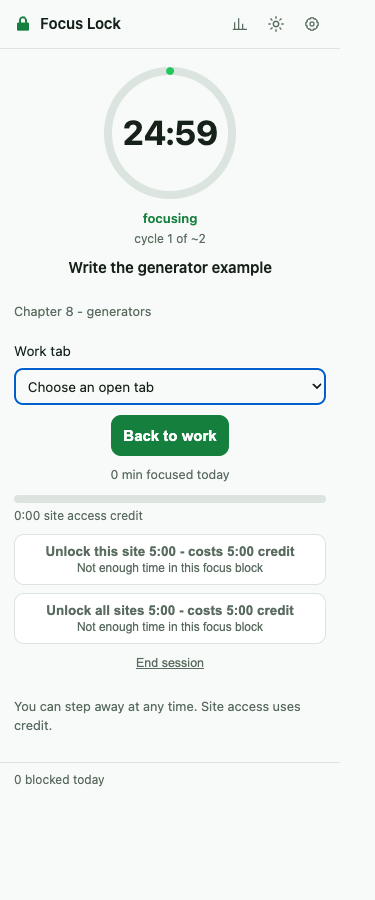
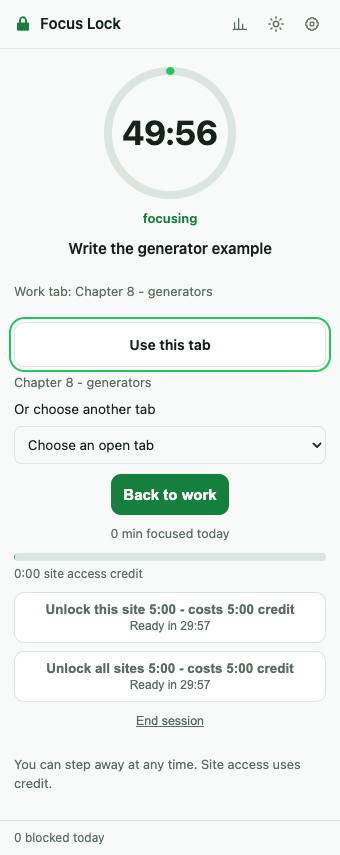
Verify and document direct work tab selection

diff --git a/tests/e2e/work-target.spec.ts b/tests/e2e/work-target.spec.ts
@@ -3,6 +3,21 @@ import type { SessionSnapshot } from '../../src/shared/types';
 import type { WorkTargetResult } from '../../src/shared/work-target';
 import { expect, sendExtensionRequest, startTestSession, test } from './fixtures';
 
+interface AccessibilityProperty {
+  name: string;
+  value: { value?: unknown };
+}
+
+interface AccessibilityNode {
+  role?: { value?: unknown };
+  name?: { value?: unknown };
+  properties?: AccessibilityProperty[];
+}
+
+interface AccessibilityTree {
+  nodes: AccessibilityNode[];
+}
+
 interface TabIdentity {
   tabId: number;
   windowId: number;
@@ -320,6 +335,9 @@ test('the popup defaults to the current work tab and can replace a closed target
   await workPage.bringToFront();
   await extPage.reload();
   await expect(extPage.getByLabel('Work tab', { exact: true })).toHaveValue(String(work.tabId));
+  await extPage.getByLabel('Work tab', { exact: true }).selectOption('');
+  await extPage.getByRole('button', { name: 'Use this tab', exact: true }).click();
+  await expect(extPage.getByLabel('Work tab', { exact: true })).toHaveValue(String(work.tabId));
   await extPage.getByLabel("What's your next small step?").fill('Write the first assertion');
   await extPage.getByRole('button', { name: 'Start focusing' }).click();
   await expect(extPage.getByRole('button', { name: 'Back to work', exact: true })).toBeEnabled();
@@ -335,7 +353,9 @@ test('the popup defaults to the current work tab and can replace a closed target
     document.title = 'Finish the example';
   });
   const replacementTab: TabIdentity = await identity(worker, replacement);
-  await extPage.getByLabel('Work tab', { exact: true }).selectOption(String(replacementTab.tabId));
+  await replacement.bringToFront();
+  await extPage.reload();
+  await extPage.getByRole('button', { name: 'Use this tab', exact: true }).click();
   await expect
     .poll(async (): Promise<string | null> => {
       const current: WorkTargetResult = await target(extPage, work.windowId);
@@ -352,6 +372,200 @@ test('the popup defaults to the current work tab and can replace a closed target
         }, replacementTab.tabId),
     )
     .toBe(true);
+});
+
+test('the inline picker offers allowed tabs and returns without losing page input', async ({
+  context,
+  extPage,
+  worker,
+  siteUrl,
+}) => {
+  const workPage: Page = await context.newPage();
+  await workPage.goto(siteUrl('/plain.html').replace('blocked.example', 'other.example'));
+  await workPage.evaluate((): void => {
+    document.title = 'Write the next example';
+    document.body.innerHTML = '<label>Draft<input id="draft"></label>';
+  });
+  await workPage.locator('#draft').fill('Keep my draft');
+  const work: TabIdentity = await identity(worker, workPage);
+  const blockedPage: Page = await context.newPage();
+  await blockedPage.goto(siteUrl('/plain.html'));
+  await blockedPage.evaluate((): void => {
+    document.title = 'Distracting page';
+    (window as unknown as { preserved: string }).preserved = 'existing content';
+  });
+  await startTestSession(extPage, { durationMin: 2, intention: 'Write one example' });
+  await expect(blockedPage.locator('focus-lock-overlay')).toBeAttached();
+  await clickOverlay(context, blockedPage, 'Choose a work tab');
+  const cdp: CDPSession = await context.newCDPSession(blockedPage);
+  try {
+    await expect
+      .poll(async (): Promise<boolean> => {
+        const tree: AccessibilityTree = await cdp.send('Accessibility.getFullAXTree');
+        return tree.nodes.some(
+          (node: AccessibilityNode): boolean =>
+            node.role?.value === 'button' &&
+            String(node.name?.value).startsWith('Write the next example'),
+        );
+      })
+      .toBe(true);
+    const tree: AccessibilityTree = await cdp.send('Accessibility.getFullAXTree');
+    expect(
+      tree.nodes.some(
+        (node: AccessibilityNode): boolean =>
+          node.role?.value === 'button' && String(node.name?.value).includes('Distracting page'),
+      ),
+    ).toBe(false);
+  } finally {
+    await cdp.detach();
+  }
+  await clickOverlay(context, blockedPage, 'Write the next example');
+  await expect
+    .poll(
+      async (): Promise<boolean> =>
+        worker.evaluate(async (tabId: number): Promise<boolean> => {
+          const tab: chrome.tabs.Tab = await chrome.tabs.get(tabId);
+          return tab.active;
+        }, work.tabId),
+    )
+    .toBe(true);
+  expect(await target(extPage, work.windowId)).toMatchObject({
+    ok: true,
+    state: 'ready',
+    title: 'Write the next example',
+  });
+  await expect(workPage.locator('#draft')).toHaveValue('Keep my draft');
+  expect(
+    await blockedPage.evaluate(
+      (): string => (window as unknown as { preserved: string }).preserved,
+    ),
+  ).toBe('existing content');
+  await expect(blockedPage.locator('focus-lock-overlay')).toBeAttached();
+});
+
+test('refreshing an empty picker keeps keyboard focus inside the lockscreen', async ({
+  context,
+  extPage,
+  siteUrl,
+}) => {
+  const page: Page = await context.newPage();
+  await page.goto(siteUrl('/plain.html'));
+  await startTestSession(extPage, { durationMin: 2 });
+  await expect(page.locator('focus-lock-overlay')).toBeAttached();
+  await clickOverlay(context, page, 'Choose a work tab');
+  await clickOverlay(context, page, 'Refresh tabs');
+  const cdp: CDPSession = await context.newCDPSession(page);
+  const focused: (name: string) => Promise<boolean> = async (name: string): Promise<boolean> => {
+    const tree: AccessibilityTree = await cdp.send('Accessibility.getFullAXTree');
+    return tree.nodes.some(
+      (node: AccessibilityNode): boolean =>
+        node.role?.value === 'button' &&
+        node.name?.value === name &&
+        node.properties?.some(
+          (property: AccessibilityProperty): boolean =>
+            property.name === 'focused' && property.value.value === true,
+        ) === true,
+    );
+  };
+  try {
+    await expect.poll((): Promise<boolean> => focused('Cancel')).toBe(true);
+    await page.keyboard.press('Escape');
+    await expect.poll((): Promise<boolean> => focused('Choose a work tab')).toBe(true);
+  } finally {
+    await cdp.detach();
+  }
+});
+
+test('a pending work tab save can be cancelled with Escape without activating that tab', async ({
+  context,
+  extPage,
+  worker,
+  siteUrl,
+}) => {
+  const work: Page = await context.newPage();
+  await work.goto(siteUrl('/plain.html').replace('blocked.example', 'other.example'));
+  await work.evaluate((): void => {
+    document.title = 'Continue the draft';
+  });
+  const workTab: TabIdentity = await identity(worker, work);
+  const blocked: Page = await context.newPage();
+  await blocked.goto(siteUrl('/plain.html'));
+  await startTestSession(extPage, { durationMin: 2 });
+  await clickOverlay(context, blocked, 'Choose a work tab');
+  await worker.evaluate((): void => {
+    const original: typeof chrome.storage.session.set = chrome.storage.session.set.bind(
+      chrome.storage.session,
+    );
+    const state: { release?: () => void } = {};
+    (globalThis as unknown as { releaseWorkSave: () => void }).releaseWorkSave = (): void => {
+      state.release?.();
+    };
+    Object.defineProperty(chrome.storage.session, 'set', {
+      configurable: true,
+      value: async (items: Record<string, unknown>): Promise<void> => {
+        if ('workTarget' in items)
+          await new Promise<void>((resolve: () => void): void => {
+            state.release = resolve;
+            (globalThis as unknown as { workSavePending: boolean }).workSavePending = true;
+          });
+        await original(items);
+      },
+    });
+  });
+  await blocked.bringToFront();
+  await clickOverlay(context, blocked, 'Continue the draft');
+  await expect
+    .poll(
+      async (): Promise<boolean> =>
+        worker.evaluate(
+          (): boolean =>
+            (globalThis as unknown as { workSavePending?: boolean }).workSavePending === true,
+        ),
+    )
+    .toBe(true);
+  const cdp: CDPSession = await context.newCDPSession(blocked);
+  try {
+    await expect
+      .poll(async (): Promise<boolean> => {
+        const tree: AccessibilityTree = await cdp.send('Accessibility.getFullAXTree');
+        return tree.nodes.some(
+          (node: AccessibilityNode): boolean =>
+            node.role?.value === 'button' &&
+            node.name?.value === 'Cancel' &&
+            node.properties?.some(
+              (property: AccessibilityProperty): boolean =>
+                property.name === 'focused' && property.value.value === true,
+            ) === true,
+        );
+      })
+      .toBe(true);
+    await blocked.keyboard.press('Escape');
+    await expect
+      .poll(async (): Promise<boolean> => {
+        const tree: AccessibilityTree = await cdp.send('Accessibility.getFullAXTree');
+        return tree.nodes.some(
+          (node: AccessibilityNode): boolean => node.name?.value === 'Available work tabs',
+        );
+      })
+      .toBe(false);
+  } finally {
+    await worker.evaluate((): void =>
+      (globalThis as unknown as { releaseWorkSave: () => void }).releaseWorkSave(),
+    );
+    await cdp.detach();
+  }
+  await expect
+    .poll(async (): Promise<string | null> => {
+      const current: WorkTargetResult = await target(extPage, workTab.windowId);
+      return current.ok ? current.title : null;
+    })
+    .toBe('Continue the draft');
+  expect(
+    await worker.evaluate(
+      async (id: number): Promise<boolean> => (await chrome.tabs.get(id)).active,
+      workTab.tabId,
+    ),
+  ).toBe(false);
 });
 
 test('typed gate confirmation survives theme and work-tab status updates', async ({

diff --git a/docs/qa-checklist.md b/docs/qa-checklist.md
@@ -1,5 +1,20 @@
 # Focus Lock QA checklist
 
+## Work tab picker verification: 2026-09-08
+
+Source commit `2176e9fb4f93367e209eeb938ef4523aac9ef5d0`. Browser checks used an isolated Chromium profile with demonstration tabs.
+
+- [x] `npm run check`: Biome, TypeScript, 61 test files, 1,251 passing tests, 2 skipped tests and production build passed.
+- [x] `npm run e2e`: all 40 browser scenarios passed on the final source.
+- [x] The popup chooses the actual current allowed tab and retains another-tab selection. A delayed lookup cannot overwrite a newer manual choice.
+- [x] The inline picker filters allowed tabs, saves the selected target and returns without losing page input. Empty, closed and stale targets have recovery paths.
+- [x] Retry, pending save cancellation, unavailable triggers and failed returns retain keyboard focus within the lockscreen. Gate abandonment remains available without a work target.
+- [x] A dedicated Vite server ran during dev-browser checks of the production extension. Full-page, component, hover and keyboard-focus captures cover both themes at 1280, 768 and 375 px.
+- [x] Independent visual review approved popup start and active states plus missing, open, ready, long-title, unavailable, empty and gate-without-target overlay states.
+- [x] Browser logs contain no console errors or page exceptions. Chromium emitted 25 module-preload warnings on extension pages.
+
+Evidence is retained in `.playwright-mcp/work-tab-picker-qa/`. The guide includes the inline chooser and refreshed popup, overlay and gate screenshots.
+
 ## Return-to-work verification: 2026-09-07
 
 The checks below cover source commit `9cf571ce51a1895ab14e55ae8c58beb0f504a0a3`. All browser runs used isolated Chromium profiles. The screenshots use demonstration tasks and seeded aggregate statistics.

diff --git a/README.md b/README.md
@@ -48,13 +48,17 @@ The lockscreen shows your next step, time until the next break or session end, a
 
 Open Need a break or site access? for credit and temporary access options. Each action shows its own cost and the time needed to afford it. When the credit limit or remaining focus time makes a spend unavailable, the screen explains why instead of counting down to a button that stays disabled.
 
-Change your work tab in the active popup. A closed or newly blocked work tab cannot be used as a return destination. Scheduled sessions and sessions started without a target show an instruction to choose one in the popup. A work tab never bypasses your blocklist or whitelist.
+Choose a work tab directly on the lockscreen. The inline list shows allowed open tabs. Selecting a title saves that tab and takes you back to it. Change work tab opens the list again.
+
+In the popup, Use this tab selects the current allowed tab. The Work tab menu lets you choose another. A closed or newly blocked work tab cannot be used as a return destination. A work tab never bypasses your blocklist or whitelist.
 
 The work-tab reference stays in worker-only `chrome.storage.session`. It survives a service-worker restart but is cleared when Chrome restarts or the extension reloads. Choose the tab again after a restart. The saved focus session and site access credit use their existing storage and continue independently.
 
 ## Screenshots
 
 The screenshots use an isolated Chrome profile with demonstration data.
+
+![Choose a work tab directly on the lockscreen](https://raw.githubusercontent.com/WoLpH/distraction-blocker/master/docs/images/focus-lock/work-tab-picker.png)
 
 | Active popup | Existing-page overlay | Deliberation gate |
 | --- | --- | --- |
